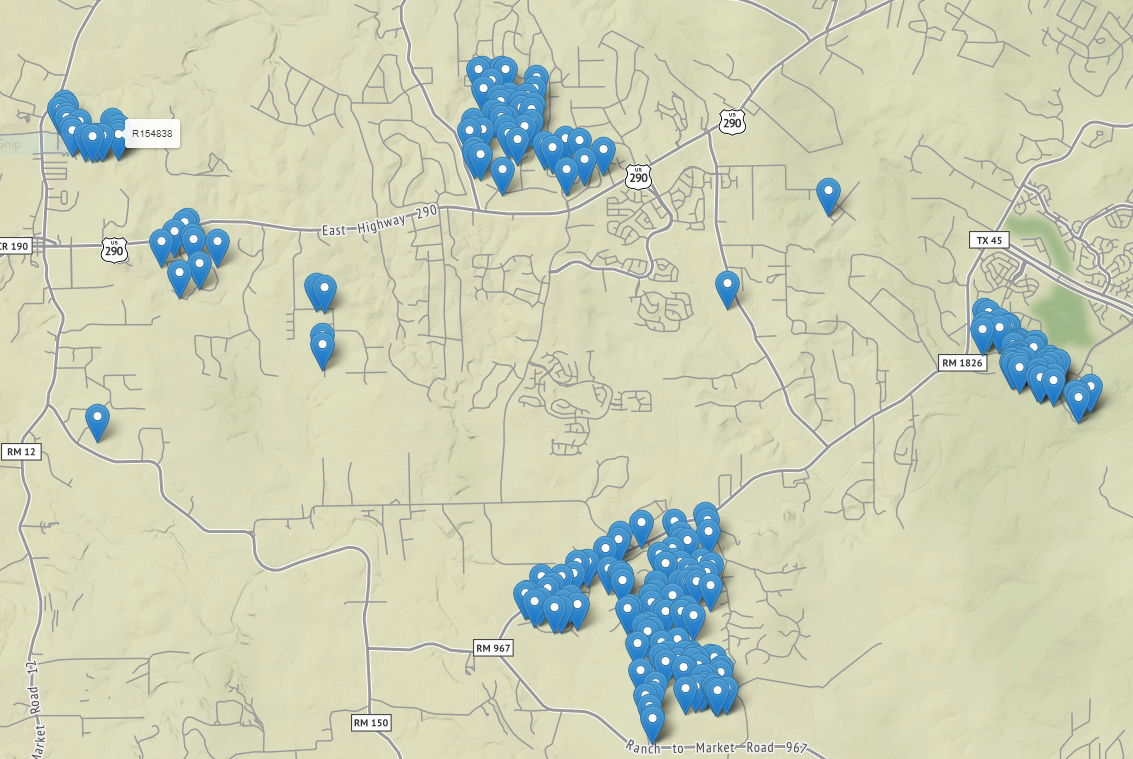
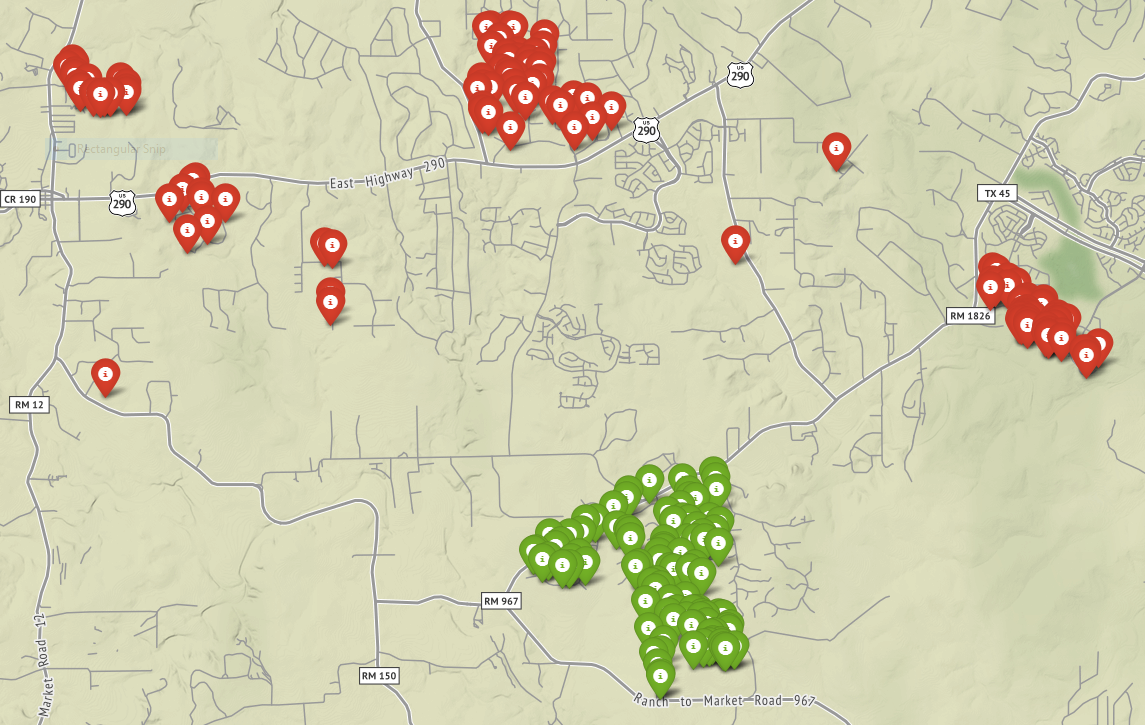
Add method to calculate distance from given location

diff --git a/map_list.py b/map_list.py
@@ -1,7 +1,17 @@
 import folium
+import geopy.distance
+
+MAX_DISTANCE = 2.0  # miles
+
+with open('my_location.txt') as loc_file:
+    my_loc = [line.rstrip().split(',') for line in loc_file]
+my_coords = (float(my_loc[0][0]), float(my_loc[0][1]))
+print(my_coords)
 
 with open('lat_long_coords.txt') as coords_file:
     coords_list = [line.rstrip().split(',') for line in coords_file]
+
+results_file = open('my_comps.txt', 'w')
 
 # Center map on Hays County coords returned by Google
 my_map = folium.Map(location=[30.1235632, -98.0321392], zoom_start=12, tiles="Stamen Terrain")
@@ -10,11 +20,22 @@ for coords in coords_list:
     latitude = coords[1]
     longitude = coords[2]
 
+    icon_color = "red"
+    is_comparable = False
+    dist = geopy.distance.geodesic(my_coords, (latitude, longitude)).miles
+    if dist < MAX_DISTANCE:
+        icon_color = "green"
+        is_comparable = True
+
     folium.Marker(
         location=[latitude, longitude],
         popup=f'{coords[0]}',
-        tooltip=f'{coords[0]}'
+        tooltip=f'{coords[0]}',
+        icon=folium.Icon(color=icon_color)
     ).add_to(my_map)
 
+    print(f'{coords[0]}, {is_comparable}')
+    results_file.write(f'{coords[0]}, {is_comparable}\n')
 
 my_map.save('property_tax_map.html')
+results_file.close()
